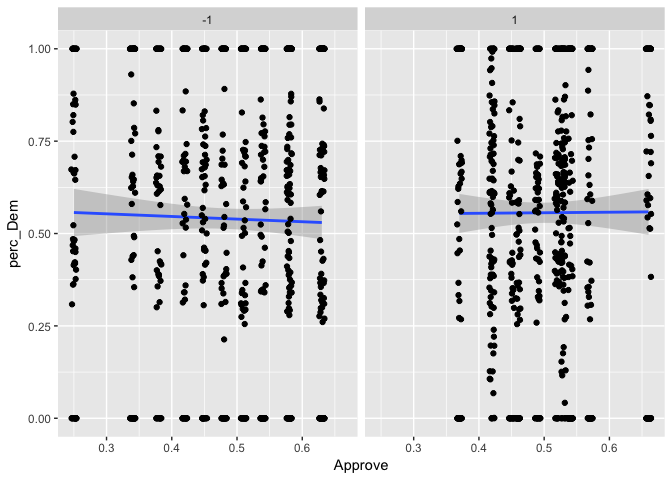
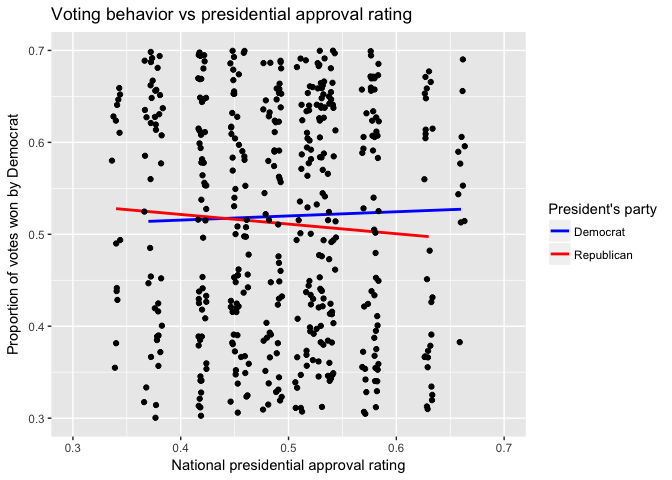
made a perc_Dem vs approval plot

diff --git a/FinalProject/TheWork/FinalProject.md b/FinalProject/TheWork/FinalProject.md
@@ -407,12 +407,21 @@ HS16map
 ![](FinalProject_files/figure-markdown_github/unnamed-chunk-10-4.png)
 
 ``` r
-# Visualizing the relationship between econ-strength*prez_party and perc_Dem
+# Visualizing the relationship between Approve*prez_party and perc_Dem
+
+Results <- Results %>%
+  mutate(prez_partyname = ifelse(prez_party == 1, "Democrat", "Republican"))
 
 plot3 <- ggplot(Results, aes(y = perc_Dem, x = Approve)) +
-  geom_smooth(method = "lm") +
+  geom_smooth(method = "lm", aes(col = prez_partyname), se = FALSE) +
   geom_jitter() +
-  facet_grid(. ~ prez_party)
+  xlim(.3, .7) +
+  ylim(.3, .7) +
+  scale_colour_manual(values = c("blue", "red")) +
+  ylab("Proportion of votes won by Democrat") +
+  xlab("National presidential approval rating") +
+  labs(col = "President's party") +
+  ggtitle("Voting behavior vs presidential approval rating")
 plot3
 ```
 
@@ -575,7 +584,12 @@ Results1 <- Results %>%
 ```
 
 ``` r
-Calc_err <- function(m1, initial_lag = 12){
+Calc_err <- function(formula = perc_Dem ~ perc_DemLag +
+                       incumbentparty +
+                       perc_change +
+                       (1|chamdist),
+                     data = train,
+                     initial_lag = 12){
   n <- length(unique(Results1$year))
   n_predict <- n - initial_lag -1
   RSS <- rep(NA, n = n_predict)
